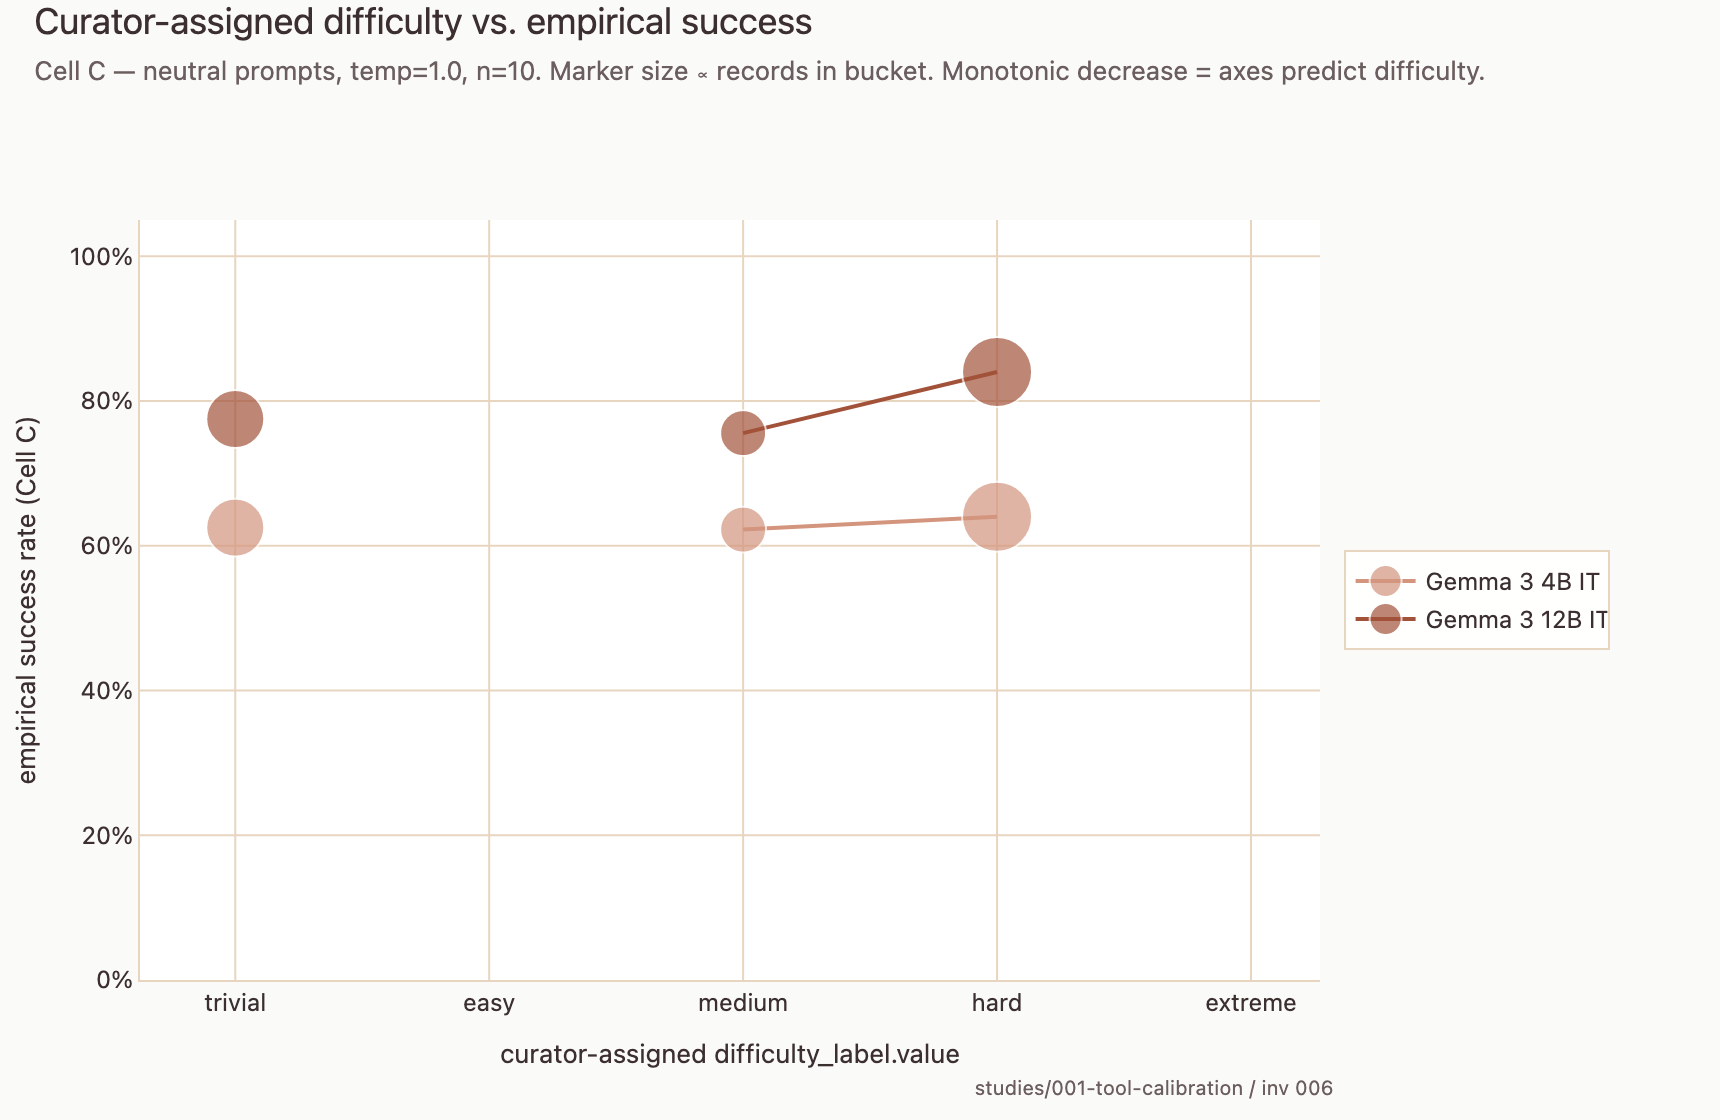
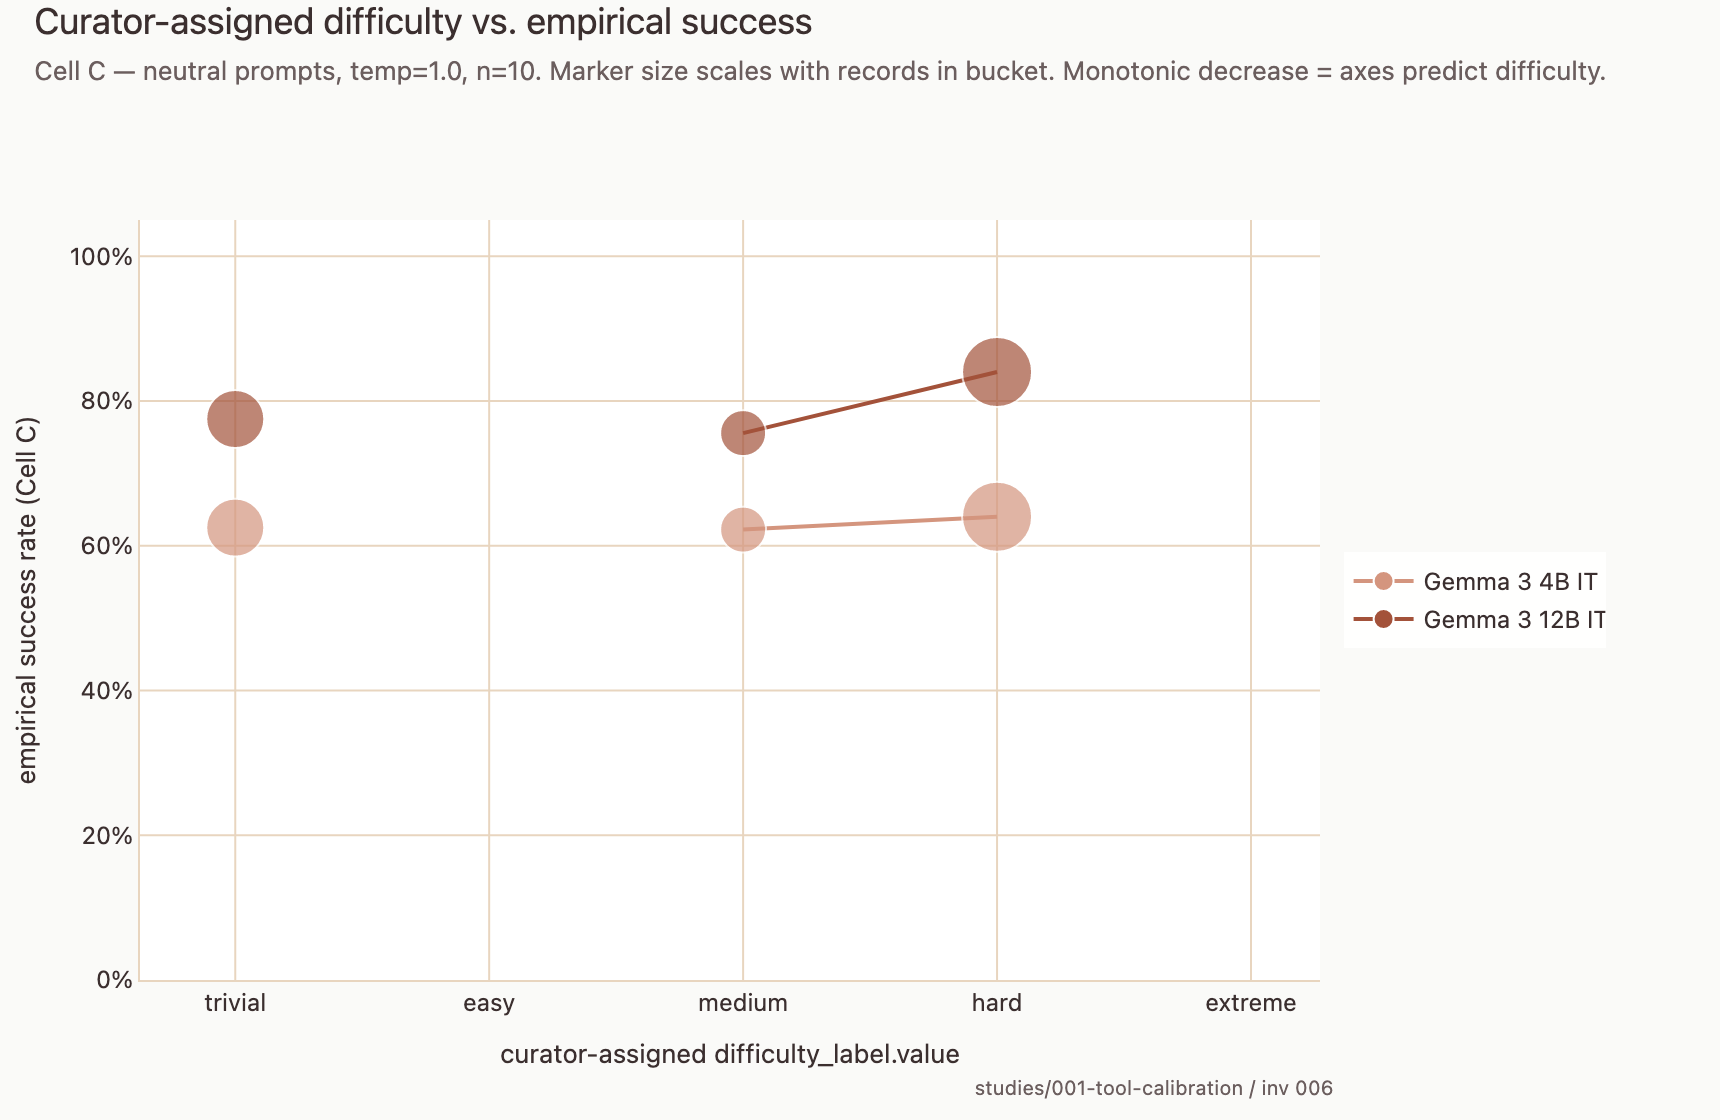
006 figures: third-color rollout, formatting fixes, one-pager figure wired
Slopegraph third category now uses slate_blue (#3D6478), added to
MOREL_COLORS. Audited and fixed legend clipping (Plotly's text-width
estimator underestimates Greek chars like Δ — entrywidth=260 in pixels
bypasses it). Surfaced as a reusable horizontal_legend() helper in
branding.py so other figures with similar legends can pull the
workaround. Trimmed long subtitles, fixed attribution clipping in
banded scatter, swapped ∝ for plain prose to avoid font-fallback
glyph drift.

color-test/ subfolder retains the exploration (terracotta + green
needed a hue genuinely outside the warm-red family to survive
opacity-0.55 layering; slate_blue won).

Wired the slopegraph into the one-pager writeup as the single figure.
Prose still placeholder; human owns that.

Changed region(s): [[0.4006, 0.0312, 0.9244, 0.0938], [0.7703, 0.5, 0.9552, 0.5625]]

diff --git a/studies/001-tool-calibration/investigations/006-temperature-prompt/figures/per_record_scatter_banded.py b/studies/001-tool-calibration/investigations/006-temperature-prompt/figures/per_record_scatter_banded.py
@@ -90,10 +90,10 @@ def main() -> None:
     # extreme sub-regions of those half-planes.
 
     rects = [
-        ("Both fail",      -0.05, 0.20, -0.05, 0.20, "rgba(193,79,79,0.10)",   0.075, 0.075),
-        ("Both succeed",    0.80, 1.05,  0.80, 1.05, "rgba(45,80,22,0.12)",    0.925, 0.925),
-        ("Scale Solves",   -0.05, 0.25,  0.75, 1.05, "rgba(45,80,22,0.20)",    0.10,  0.90),
-        ("Scale Breaks",    0.75, 1.05, -0.05, 0.25, "rgba(193,105,79,0.22)",  0.90,  0.10),
+        ("Both fail",      -0.05, 0.20, -0.05, 0.20, "rgba(193,105,79,0.35)",  0.075, 0.075),
+        ("Both succeed",    0.80, 1.05,  0.80, 1.05, "rgba(45,80,22,0.28)",    0.925, 0.925),
+        ("Scale Solves",   -0.05, 0.25,  0.75, 1.05, "rgba(107,94,94,0.18)",   0.10,  0.90),
+        ("Scale Breaks",    0.75, 1.05, -0.05, 0.25, "rgba(107,94,94,0.18)",   0.90,  0.10),
     ]
     for name, x0, x1, y0, y1, color, ax, ay in rects:
         fig.add_shape(type="rect", x0=x0, x1=x1, y0=y0, y1=y1,
@@ -175,20 +175,24 @@ def main() -> None:
         yaxis_title="12B IT success rate (n=10)",
         xaxis=dict(range=[-0.05, 1.08], tickformat=".0%"),
         yaxis=dict(range=[-0.05, 1.08], tickformat=".0%"),
-        width=820,
-        height=820,
-        legend=dict(title="prompt set", orientation="v",
-                    yanchor="bottom", y=0.02, xanchor="right", x=0.98),
+        width=920,
+        height=900,
+        legend=dict(title="prompt set", orientation="h",
+                    yanchor="top", y=-0.10, xanchor="center", x=0.5),
     )
     apply_morel_template(
         fig,
         title="Per-record success — banded view: 4B IT vs 12B IT (temp=1.0)",
         subtitle=(
-            "each dot = one record. Bands carve the plane into named regions for reading. "
-            "The diagonal is scale-neutral; ±0.20 dotted lines mark a 'similar performance' corridor."
+            "each dot = one record. Diagonal is scale-neutral; "
+            "±0.20 dotted lines mark a 'similar performance' corridor."
         ),
         attribution="studies/001-tool-calibration / inv 006",
     )
+    fig.update_layout(margin=dict(l=80, r=40, t=110, b=180))
+    for ann in fig.layout.annotations:
+        if ann.text and "001-tool-calibration" in ann.text:
+            ann.y = -0.17
 
     out_html = HERE / "per_record_scatter_banded.html"
     out_png = HERE / "per_record_scatter_banded.png"

diff --git a/studies/001-tool-calibration/investigations/006-temperature-prompt/figures/prediction_slopegraph.py b/studies/001-tool-calibration/investigations/006-temperature-prompt/figures/prediction_slopegraph.py
@@ -28,7 +28,7 @@ REPO_ROOT = Path(__file__).resolve().parents[5]
 sys.path.insert(0, str(STUDY_ROOT))
 sys.path.insert(0, str(REPO_ROOT / ".claude" / "skills" / "morel-branding"))
 from harness.parser import classify_trial  # noqa: E402
-from branding import apply_morel_template, MOREL_COLORS  # noqa: E402
+from branding import apply_morel_template, MOREL_COLORS, horizontal_legend  # noqa: E402
 
 DATE = "2026-05-12"
 BUCKETS = ["trivial", "easy", "medium", "hard", "extreme"]
@@ -67,11 +67,11 @@ def _jitter(rid: str) -> float:
 
 
 CATEGORY = {
-    "overestimated": {"color": MOREL_COLORS["terracotta_dark"],
+    "overestimated": {"color": MOREL_COLORS["slate_blue"],
                       "label": "Opus overestimated (Δ < 0)"},
     "calibrated":    {"color": MOREL_COLORS["forest_green"],
                       "label": "Calibrated (Δ = 0)"},
-    "underestimated":{"color": MOREL_COLORS["terracotta_light"],
+    "underestimated":{"color": MOREL_COLORS["terracotta"],
                       "label": "Opus underestimated (Δ > 0)"},
 }
 
@@ -180,12 +180,9 @@ def main() -> None:
         )
 
     fig.update_layout(
-        width=900,
-        height=580,
-        legend=dict(
-            orientation="h",
-            yanchor="bottom", y=-0.18, xanchor="center", x=0.5,
-        ),
+        width=1080,
+        height=640,
+        legend=horizontal_legend(),
     )
     apply_morel_template(
         fig,
@@ -196,7 +193,10 @@ def main() -> None:
         ),
         attribution="studies/001-tool-calibration / inv 006",
     )
-    fig.update_layout(margin=dict(l=80, r=30, t=110, b=110))
+    fig.update_layout(margin=dict(l=80, r=30, t=110, b=170))
+    for ann in fig.layout.annotations:
+        if ann.text and "001-tool-calibration" in ann.text:
+            ann.y = -0.28
 
     out_html = HERE / "prediction_slopegraph.html"
     out_png = HERE / "prediction_slopegraph.png"

diff --git a/.claude/skills/morel-branding/branding.py b/.claude/skills/morel-branding/branding.py
@@ -27,6 +27,7 @@ MOREL_COLORS: dict[str, str] = {
     "dark_earth": "#3B2F2F",
     "off_white": "#FAFAF8",
     "error_red": "#C14F4F",
+    "slate_blue": "#3D6478",
     "muted_text": "#6B5E5E",
     "axis_gridline": "#E8D5BF",
 }
@@ -128,8 +129,8 @@ def apply_morel_template(
             font=dict(family=MOREL_FONT_FAMILY, size=12,
                       color=MOREL_COLORS["dark_earth"]),
             bgcolor="rgba(255,255,255,0.92)",
-            bordercolor=MOREL_COLORS["cream_dark"],
-            borderwidth=1,
+            bordercolor="rgba(0,0,0,0)",
+            borderwidth=0,
         ),
         hoverlabel=dict(
             font=dict(family=MOREL_FONT_FAMILY,
@@ -170,3 +171,23 @@ def style_bars_by_group(
 ) -> dict[str, str]:
     """Map an iterable of group labels to brand colors in cycle order."""
     return {label: cycle_color(i) for i, label in enumerate(labels)}
+
+
+def horizontal_legend(*, y: float = -0.16, x: float = 0.5,
+                      entrywidth: int = 260) -> dict:
+    """Legend config for a horizontal legend placed below the plot.
+
+    Plotly's text-width estimator underestimates Greek/unicode chars
+    (Δ, ∝, etc.), which causes auto-fit horizontal legends to clip
+    the rightmost entry. Setting `entrywidth` with mode="pixels"
+    bypasses the estimator entirely.
+
+    Pair with figure width that comfortably fits `entrywidth * N + slack`
+    where N is the number of legend entries.
+    """
+    return dict(
+        orientation="h",
+        yanchor="top", y=y, xanchor="center", x=x,
+        entrywidthmode="pixels",
+        entrywidth=entrywidth,
+    )

diff --git a/studies/001-tool-calibration/investigations/006-temperature-prompt/figures/axes_vs_success.py b/studies/001-tool-calibration/investigations/006-temperature-prompt/figures/axes_vs_success.py
@@ -116,6 +116,19 @@ def main() -> None:
                         line=dict(color="white", width=1)),
             text=hover,
             hovertemplate="%{text}<extra></extra>",
+            showlegend=False,
+        ))
+        # Legend proxy with a fixed-size marker so the legend swatch
+        # isn't blown out by the variable bubble sizes above.
+        fig.add_trace(go.Scatter(
+            x=[None], y=[None],
+            mode="lines+markers",
+            name=model_label,
+            line=dict(color=palette[model_label], width=2),
+            marker=dict(size=10, color=palette[model_label],
+                        line=dict(color="white", width=1)),
+            showlegend=True,
+            hoverinfo="skip",
         ))
 
     fig.update_layout(
@@ -131,7 +144,7 @@ def main() -> None:
         fig,
         title="Curator-assigned difficulty vs. empirical success",
         subtitle=(
-            "Cell C — neutral prompts, temp=1.0, n=10. Marker size ∝ records in bucket. "
+            "Cell C — neutral prompts, temp=1.0, n=10. Marker size scales with records in bucket. "
             "Monotonic decrease = axes predict difficulty."
         ),
         attribution="studies/001-tool-calibration / inv 006",

diff --git a/studies/001-tool-calibration/investigations/006-temperature-prompt/figures/curator_vs_empirical_heatmap.py b/studies/001-tool-calibration/investigations/006-temperature-prompt/figures/curator_vs_empirical_heatmap.py
@@ -139,9 +139,8 @@ def main() -> None:
         fig,
         title="Curator-assigned vs. empirical difficulty (Cell C, n=10)",
         subtitle=(
-            "Rows = curator bucket. Cols = empirical bucket from Cell C success_rate. "
-            "Empirical bucketing is model-relative — sr→bucket thresholds are absolute but the "
-            "underlying success rate depends on the model."
+            "Rows = curator bucket; cols = empirical bucket (Cell C sr). "
+            "Bucketing is model-relative: thresholds are fixed, but sr depends on the model."
         ),
         attribution="studies/001-tool-calibration / inv 006",
     )

diff --git a/studies/001-tool-calibration/investigations/006-temperature-prompt/figures/curator_vs_empirical_dots.py b/studies/001-tool-calibration/investigations/006-temperature-prompt/figures/curator_vs_empirical_dots.py
@@ -172,9 +172,8 @@ def main() -> None:
         fig,
         title="Per-record curator-vs-empirical (Cell C, n=10) — color by tool, shape by model",
         subtitle=(
-            "x: curator-assigned bucket. y: empirical success_rate. "
-            "Bucket reference lines mark methodology thresholds. "
-            "Circles = 4B, diamonds = 12B."
+            "x: curator bucket. y: empirical sr. "
+            "Dotted lines = bucket thresholds. Circles = 4B; diamonds = 12B."
         ),
         attribution="studies/001-tool-calibration / inv 006",
     )

diff --git a/studies/001-tool-calibration/writeups/onepager/001-curator-prediction-mismatch/one-pager.tex b/studies/001-tool-calibration/writeups/onepager/001-curator-prediction-mismatch/one-pager.tex
@@ -77,9 +77,7 @@ PROSE GOES HERE.
 % ----- 5. Figure -------------------------------------------------------------
 \begin{figure}[h]
   \centering
-  % Replace with the actual figure file (PDF or PNG):
-  % \includegraphics[width=0.85\linewidth]{figure.pdf}
-  \fbox{\parbox{0.85\linewidth}{\centering\vspace{2em}FIGURE PLACEHOLDER\vspace{2em}}}
+  \includegraphics[width=0.92\linewidth]{../../../investigations/006-temperature-prompt/figures/prediction_slopegraph.png}
   \caption*{\small\textbf{Figure.} ONE-SENTENCE CAPTION THAT SAYS WHAT TO SEE.}
 \end{figure}
 
